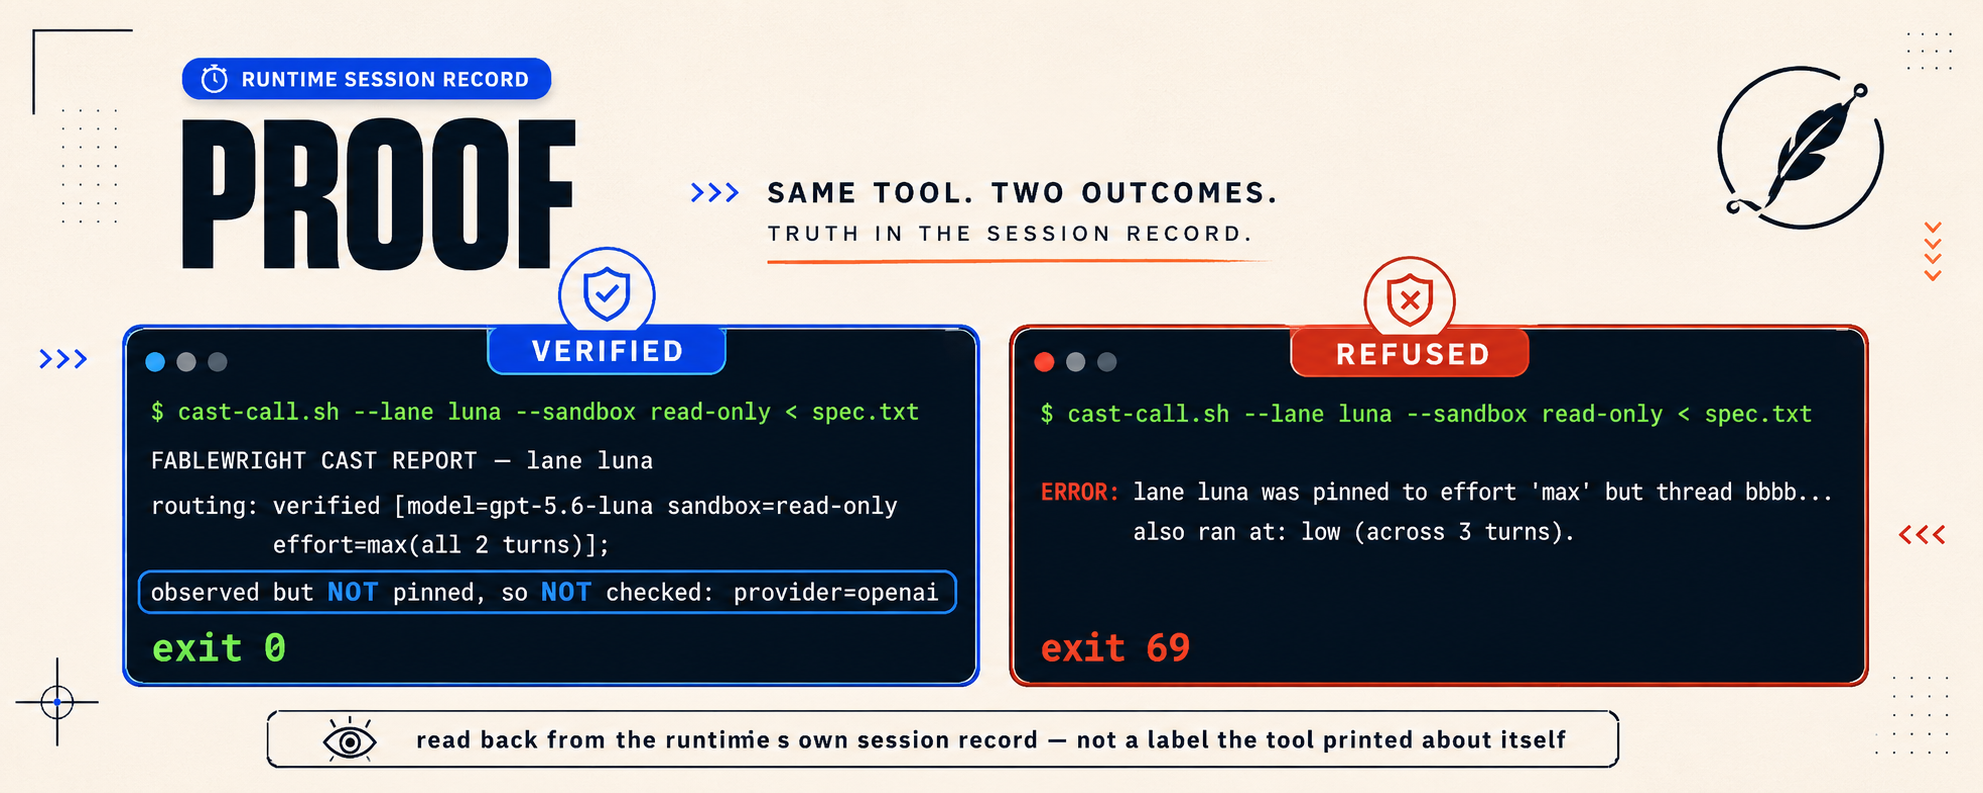
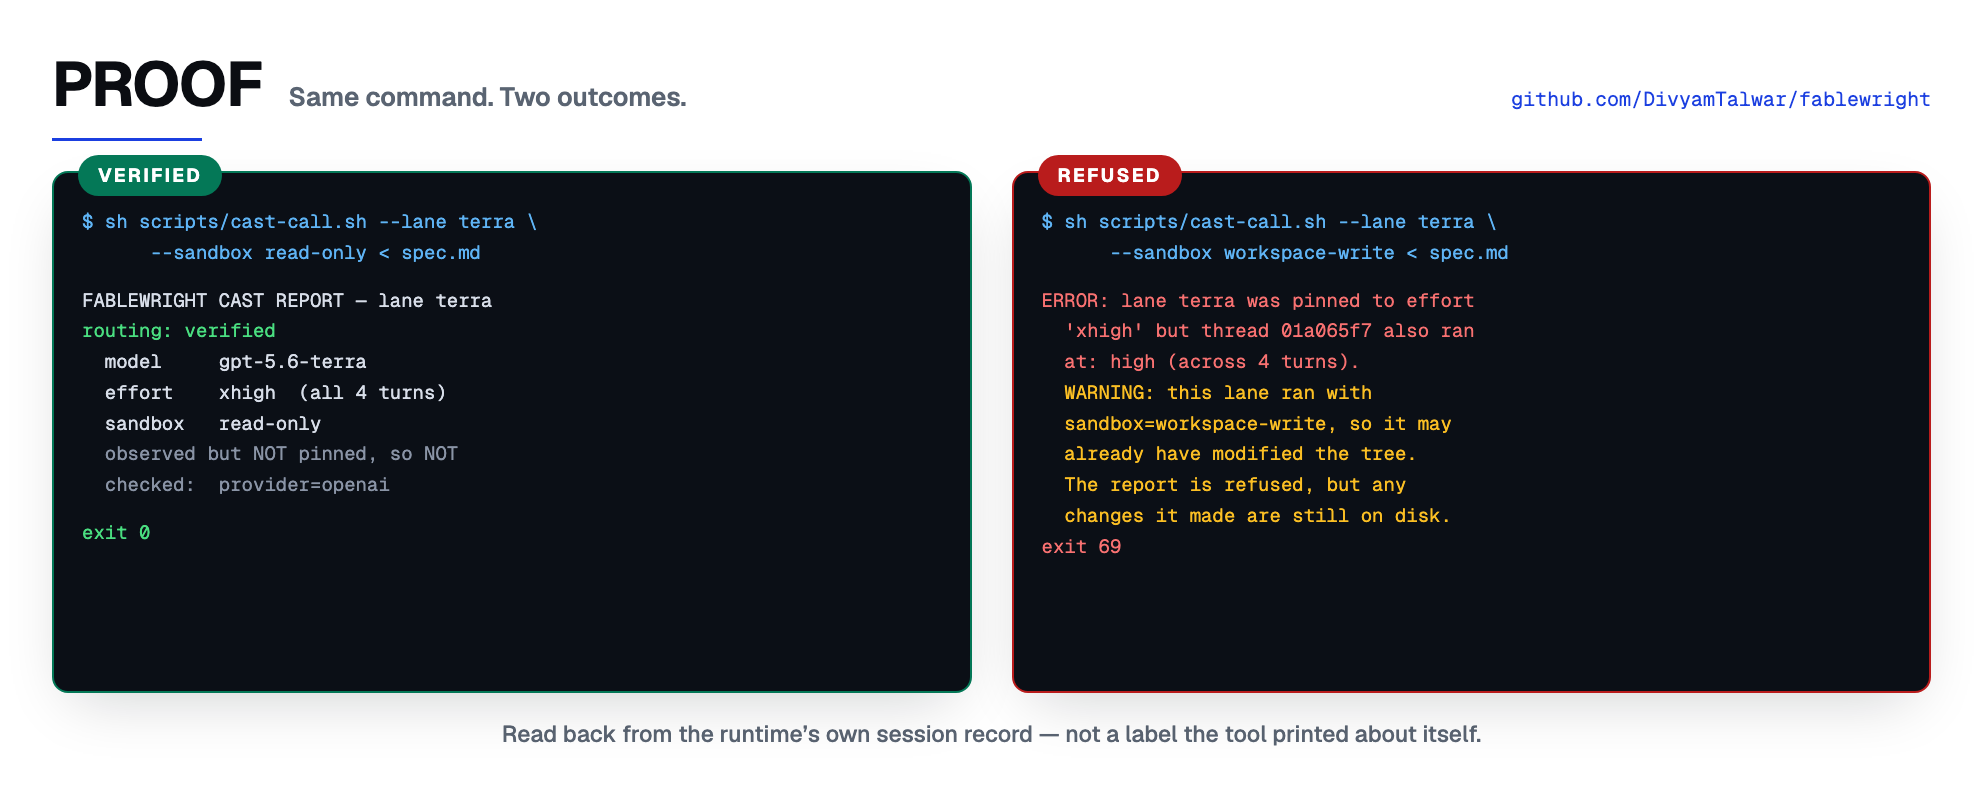
docs: correct the route ladder, refusal wording and verifier count (#3)
## Summary

A conformance pass over published v1.0.0 found four documentation
defects. Three of them contradicted artwork or code already shipped in
this same repository, which is the part worth fixing before the release
is tagged.

## What was wrong

**The routes table disagreed with its own contract.** `SKILL.md` listed
`delegate` before `audit`. The decision ladder in
`references/call-sheet.md` and the shipped `docs/images/routes.png` both
use **solo → audit → delegate → full → ensemble**. The table was the
only surface in the repo that disagreed with the contract it defines.

**Escalation wording forbade a reduction the contract requires.**
`SKILL.md` read *"A later call sheet may only escalate… Never silently
downgrade"*, while `role-contracts.md` instructs downgrading an
unsatisfiable `ensemble` to sequential `full`. Read together they
contradicted each other. Reducing rigour is now described as constrained
— it needs the same written evidence an escalation does — rather than
forbidden, and the one planned reduction is named.

**The CHANGELOG contradicted its own retraction.** One entry stated the
published config schema *"still advertises all three"* `wire_api` values
and that the binary is the authority. An earlier entry in the same file
had already retracted precisely that: `WireApi` is a `oneOf` carrying
the single variant `responses`, so schema and binary agree.

**`docs/images/proof.png` had a caption typo and an outdated claim.** It
[…]

diff --git a/skills/fablewright/SKILL.md b/skills/fablewright/SKILL.md
@@ -60,17 +60,26 @@ risk: <concise, task-specific rationale>
 ~~~
 
 No task tool call may precede it. `solo` is the default and needs a reason to leave, not
-a reason to keep. A later call sheet may only **escalate**, only on newly observed risk,
-and only with that evidence recorded. Never silently downgrade, and never add a lane
-that the posted sheet did not call.
+a reason to keep. A later call sheet may **escalate** on newly observed risk, with that
+evidence recorded, and may never add a lane the posted sheet did not call.
+
+Reducing rigour is the constrained direction, not a forbidden one. Dropping a reader,
+widening a sandbox, or standing a lane down needs the same written evidence an
+escalation does — what is banned is doing it *silently*. One reduction is planned rather
+than reactive: when `ensemble` cannot meet its disjoint-ownership or single-family
+requirements, the plan becomes sequential `full` runs and the risk line records why
+(`references/role-contracts.md`). That is a change of structure, not a loss of rigour.
 
 ## Routes
+
+Listed in the order the decision ladder in `references/call-sheet.md` works down.
+Stop at the first match; do not shop for a route further down the table.
 
 | route | implements | wright verifies | reader | use when |
 |---|---|---|---|---|
 | `solo` | wright | n/a | none | bounded, low-risk, reversible, cheap to redo |
-| `delegate` | one cast lane | yes | none | bounded and fully specifiable, and worth the wright's context |
 | `audit` | wright | yes | one | the wright is the fastest author but the risk earns an independent read |
+| `delegate` | one cast lane | yes | none | bounded and fully specifiable, and worth the wright's context |
 | `full` | one cast lane | yes | one | judgment-heavy, high-risk, or wide blast radius |
 | `ensemble` | 2+ cast lanes | yes | one | genuinely parallel work over **provably disjoint** file ownership |
 

diff --git a/README.md b/README.md
@@ -134,6 +134,26 @@ Then invoke `$fablewright` and let it post the call sheet before it calls anyone
 Installing lane profiles is deliberately a separate step: installing a plugin registers
 skills, not user-owned agent profiles.
 
+### One-minute smoke test
+
+Four commands. None of them calls a model, spends a token, or writes outside a temporary
+directory, so it is safe to run before you trust anything here.
+
+```sh
+sh scripts/verify.sh                                  # the repo checks itself
+sh tests/run-tests.sh                                 # 143 offline cases
+sh scripts/install-agents.sh --host codex --dry-run   # what WOULD be written, nothing is
+sh scripts/cast-call.sh --lane terra --check          # is this lane real and runnable?
+```
+
+Expect `VERIFY PASSED`, `ALL TESTS PASSED`, six `Would install:` lines, and then either a
+lane that validates or a named reason it cannot. `--check` resolving a lane is the point
+where an install stops being a claim.
+
+The verifier's count moves with your environment even though its verdict does not: **154**
+on a machine with neither CLI installed — the floor CI asserts — and 155 when the Claude
+CLI is present and the optional manifest validator can also run.
+
 ---
 
 ## The call sheet

diff --git a/CHANGELOG.md b/CHANGELOG.md
@@ -221,6 +221,7 @@ Written against the real runtime rather than assumed from documentation:
   altered what the worker is told, so position is checked by counting the `"""`
   delimiters that precede it.
 - `wire_api` accepts only `responses` on Codex CLI 0.153.0. `chat` returns "is no longer
-  supported" and `openai` returns "unknown variant". The published config schema still
-  advertises all three; the binary is the authority. An endpoint that speaks only
-  chat-completions cannot serve a Codex lane on this version.
+  supported" and `openai` returns "unknown variant". The published config schema agrees
+  rather than conflicting: its `WireApi` is a `oneOf` carrying the single variant
+  `responses`. An endpoint that speaks only chat-completions cannot serve a Codex lane on
+  this version.

diff --git a/docs/WALKTHROUGH.md b/docs/WALKTHROUGH.md
@@ -219,9 +219,15 @@ passed: 143   failed: 0
 ALL TESTS PASSED
 
 $ sh scripts/verify.sh
-verify 1.0.0: passed 155, failed 0
+verify 1.0.0: passed 154, failed 0
 VERIFY PASSED
 ```
+
+The verifier's **count is environment-dependent; its verdict is not.** 154 is the
+invariant floor — what a machine with neither CLI installed runs, and what CI asserts.
+With the Claude CLI on `PATH` the optional `claude plugin validate --strict` manifest
+check also runs and the total is 155. Quote 154 when you need a number that holds
+everywhere.
 
 Both call no model and write nothing outside a temporary directory. The test suite uses
 synthetic session fixtures under `tests/fixtures/`, plus a stub runtime that lets the
